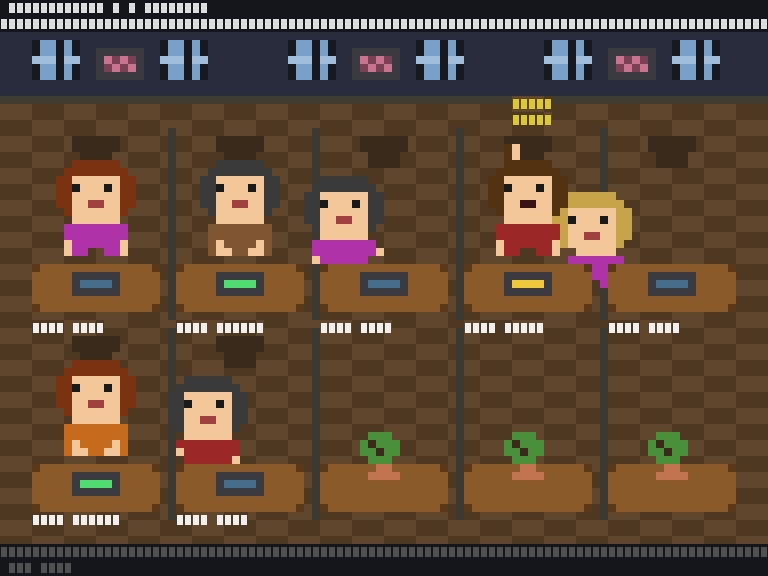
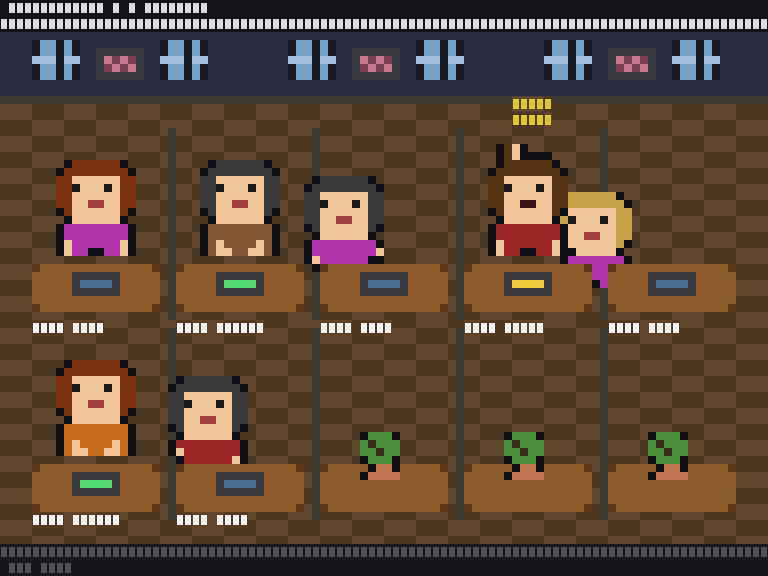
feat(core+tui): sprite outlines via blit_frame_outlined
core/sprite/blit.rs:
- pub fn blit_frame_outlined(frame, dx, dy, dst, outline_rgb)
  Paints a 1-px halo around the sprite silhouette by checking each
  transparent pixel's 4-cardinal neighbors for opaqueness, then blits
  the sprite normally on top.
- 2 unit tests covering silhouette halo + no-internal-outline guarantees.

tui/renderer.rs:
- New OUTLINE color constant (very dark blue-grey).
- blit_static helper gains an 'outlined' flag.
- Characters / desks / plants / posters / monitors all rendered with outline.
- Chair sprite removed — its small backrest above the character head was
  reading as 'horns' rather than a chair; better unrendered than misread.

Visual effect: every sprite now has a clean silhouette against the busy
checkered floor pattern, dramatically improving readability.

diff --git a/crates/ascii-agents-core/tests/sprite_blit.rs b/crates/ascii-agents-core/tests/sprite_blit.rs
@@ -1,5 +1,5 @@
 use ascii_agents_core::sprite::blit::{
-    blit_frame, draw_dotted_hline, draw_line, half_block_cells, HalfCell,
+    blit_frame, blit_frame_outlined, draw_dotted_hline, draw_line, half_block_cells, HalfCell,
 };
 use ascii_agents_core::sprite::{Frame, Pixel, Rgb, RgbBuffer};
 
@@ -86,6 +86,57 @@ fn half_block_cells_pairs_rows() {
             bg: Rgb(8, 0, 0)
         }
     );
+}
+
+#[test]
+fn outlined_blit_paints_halo_around_silhouette() {
+    // A simple 3x3 sprite that's opaque only in the center pixel.
+    // Outline should be painted at all 4 cardinal neighbors of the center.
+    let frame = Frame {
+        width: 3,
+        height: 3,
+        pixels: vec![
+            t(), t(), t(),
+            t(), px(200, 0, 0), t(),
+            t(), t(), t(),
+        ],
+    };
+    let mut buf = RgbBuffer::filled(5, 5, Rgb(0, 0, 0));
+    blit_frame_outlined(&frame, 1, 1, &mut buf, Rgb(50, 50, 50));
+
+    // Center has the sprite pixel.
+    assert_eq!(buf.get(2, 2), Rgb(200, 0, 0));
+    // 4 cardinal neighbors got the outline color.
+    assert_eq!(buf.get(1, 2), Rgb(50, 50, 50));
+    assert_eq!(buf.get(3, 2), Rgb(50, 50, 50));
+    assert_eq!(buf.get(2, 1), Rgb(50, 50, 50));
+    assert_eq!(buf.get(2, 3), Rgb(50, 50, 50));
+    // Diagonals unchanged.
+    assert_eq!(buf.get(1, 1), Rgb(0, 0, 0));
+    assert_eq!(buf.get(3, 3), Rgb(0, 0, 0));
+}
+
+#[test]
+fn outlined_blit_does_not_outline_interior_opaque_pixels() {
+    // Fully-opaque 2x2 sprite — no transparent pixels, so no internal outline.
+    let frame = Frame {
+        width: 2,
+        height: 2,
+        pixels: vec![
+            px(100, 0, 0), px(100, 0, 0),
+            px(100, 0, 0), px(100, 0, 0),
+        ],
+    };
+    let mut buf = RgbBuffer::filled(4, 4, Rgb(0, 0, 0));
+    blit_frame_outlined(&frame, 1, 1, &mut buf, Rgb(50, 50, 50));
+
+    // Sprite blitted intact.
+    assert_eq!(buf.get(1, 1), Rgb(100, 0, 0));
+    assert_eq!(buf.get(2, 2), Rgb(100, 0, 0));
+    // No outline pixels painted around the sprite — `blit_frame_outlined`
+    // only paints outline at transparent positions within the frame bounds.
+    assert_eq!(buf.get(0, 1), Rgb(0, 0, 0));
+    assert_eq!(buf.get(3, 3), Rgb(0, 0, 0));
 }
 
 #[test]

diff --git a/crates/ascii-agents-core/src/sprite/blit.rs b/crates/ascii-agents-core/src/sprite/blit.rs
@@ -1,5 +1,54 @@
 use crate::sprite::{Frame, Rgb, RgbBuffer};
 
+/// Blit a sprite frame with a 1-pixel outline painted around its silhouette.
+/// For each opaque pixel in the frame whose 4-neighborhood (up/down/left/right)
+/// in the frame contains at least one transparent (or out-of-frame) pixel,
+/// the destination buffer gets an `outline` pixel painted at the corresponding
+/// neighbor position *before* the actual sprite pixels are blitted on top.
+///
+/// Result: a clean 1-pixel halo around the sprite silhouette, useful for
+/// making solid-color shapes (desks, plants) pop against the floor pattern.
+pub fn blit_frame_outlined(
+    frame: &Frame,
+    dst_x: u16,
+    dst_y: u16,
+    dst: &mut RgbBuffer,
+    outline: Rgb,
+) {
+    let w = frame.width as i32;
+    let h = frame.height as i32;
+    let is_opaque = |fx: i32, fy: i32| -> bool {
+        if fx < 0 || fy < 0 || fx >= w || fy >= h {
+            return false;
+        }
+        let i = (fy as usize) * (frame.width as usize) + (fx as usize);
+        frame.pixels[i].is_some()
+    };
+
+    for fy in 0..h {
+        for fx in 0..w {
+            if is_opaque(fx, fy) {
+                continue;
+            }
+            // Transparent (or boundary) cell — does any opaque neighbor exist?
+            let has_opaque_neighbor =
+                is_opaque(fx - 1, fy)
+                    || is_opaque(fx + 1, fy)
+                    || is_opaque(fx, fy - 1)
+                    || is_opaque(fx, fy + 1);
+            if !has_opaque_neighbor {
+                continue;
+            }
+            let x = dst_x.saturating_add(fx as u16);
+            let y = dst_y.saturating_add(fy as u16);
+            if x < dst.width && y < dst.height {
+                dst.put(x, y, outline);
+            }
+        }
+    }
+    blit_frame(frame, dst_x, dst_y, dst);
+}
+
 /// Bresenham line drawing into an RgbBuffer. Coordinates are signed so callers
 /// can pass off-buffer endpoints (clipping is implicit — pixels outside the
 /// buffer are silently skipped).

diff --git a/crates/ascii-agents/src/tui/renderer.rs b/crates/ascii-agents/src/tui/renderer.rs
@@ -3,7 +3,9 @@ use std::time::Instant;
 
 use anyhow::Result;
 use ascii_agents_core::sprite::animator::frame_index_at;
-use ascii_agents_core::sprite::blit::{blit_frame, draw_line, half_block_cells, HalfCell};
+use ascii_agents_core::sprite::blit::{
+    blit_frame, blit_frame_outlined, draw_line, half_block_cells, HalfCell,
+};
 use ascii_agents_core::sprite::format::Pack;
 use ascii_agents_core::sprite::{Frame, Palette, Pixel, Rgb, RgbBuffer};
 use ascii_agents_core::state::ActivityState;
@@ -47,6 +49,7 @@ const WINDOW_FRAME: Rgb = Rgb(24, 24, 32);
 const WINDOW_LIGHT: Rgb = Rgb(120, 160, 200);
 const WINDOW_LIGHT_2: Rgb = Rgb(160, 190, 220);
 const PARTITION: Rgb = Rgb(60, 56, 50);
+const OUTLINE: Rgb = Rgb(14, 16, 22);
 const FLOOR_A: Rgb = Rgb(96, 70, 44);
 const FLOOR_B: Rgb = Rgb(78, 56, 34);
 
@@ -146,7 +149,7 @@ fn blit_monitor_state(
             }
         }
     }
-    blit_frame(&out, dx, dy, buf);
+    blit_frame_outlined(&out, dx, dy, buf, OUTLINE);
 }
 
 fn agent_hair(seed: u64) -> Rgb {
@@ -350,10 +353,17 @@ pub fn draw_scene<B: Backend>(
         }
 
         // Helper to safely blit a pack animation's first frame.
-        let blit_static = |buf: &mut RgbBuffer, name: &str, dx: u16, dy: u16| {
+        // `outlined`: paint a 1-px dark halo around the silhouette (good for
+        // furniture against the busy floor pattern; bad for small accents
+        // like the chair which then looks like horns above the character).
+        let blit_static = |buf: &mut RgbBuffer, name: &str, dx: u16, dy: u16, outlined: bool| {
             if let Some(anim) = pack.animation(name) {
                 if let Some(frame) = anim.frames.first() {
-                    blit_frame(frame, dx, dy, buf);
+                    if outlined {
+                        blit_frame_outlined(frame, dx, dy, buf, OUTLINE);
+                    } else {
+                        blit_frame(frame, dx, dy, buf);
+                    }
                 }
             }
         };
@@ -376,8 +386,10 @@ pub fn draw_scene<B: Backend>(
             let shirt = agent_shirt(slot.agent_id.raw());
             let hair = agent_hair(slot.agent_id.raw());
 
-            // 1. Chair (8 wide), centered behind character.
-            blit_static(&mut buf, "chair", slot_x + 4, stack_top);
+            // (Chair sprite removed in v0.1.2 — the dark-brown backrest above
+            // the character read as awkward "hat" pixels at this scale.
+            // Chair is now implied; future revival should use a lighter office
+            // chair color and a thinner backrest.)
 
             // 2. Character animation with positional wander.
             // After a task finishes the character takes a break: walks to a
@@ -421,13 +433,13 @@ pub fn draw_scene<B: Backend>(
 
                 let char_x = (base_x + offset_x).max(0) as u16;
                 let char_y = (base_y + offset_y).max(0) as u16;
-                blit_frame(&frame_rc, char_x, char_y, &mut buf);
+                blit_frame_outlined(&frame_rc, char_x, char_y, &mut buf, OUTLINE);
             }
 
             // 3. Desk in front of character (16 wide, 6 tall, slightly oversized
             //    so it occludes the character's lower body / hands).
             let desk_y = stack_top + 4 + 12;
-            blit_static(&mut buf, "desk", slot_x, desk_y);
+            blit_static(&mut buf, "desk", slot_x, desk_y, true);
 
             // 4. Monitor sitting on desk — color reflects current activity state.
             let monitor_y = desk_y + 1;
@@ -443,8 +455,8 @@ pub fn draw_scene<B: Backend>(
             }
             let (slot_x, slot_y) = slot_origin(i);
             // Plant sits on a desk surface — same desk row as a normal slot.
-            blit_static(&mut buf, "desk", slot_x, slot_y + 4 + 12);
-            blit_static(&mut buf, "plant", slot_x + 5, slot_y + 4 + 8);
+            blit_static(&mut buf, "desk", slot_x, slot_y + 4 + 12, true);
+            blit_static(&mut buf, "plant", slot_x + 5, slot_y + 4 + 8, true);
         }
 
         // --- Overflow indicator if there are more agents than visible slots ---